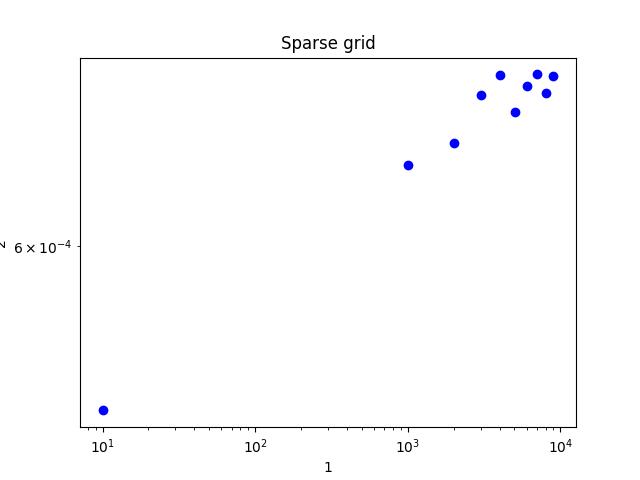
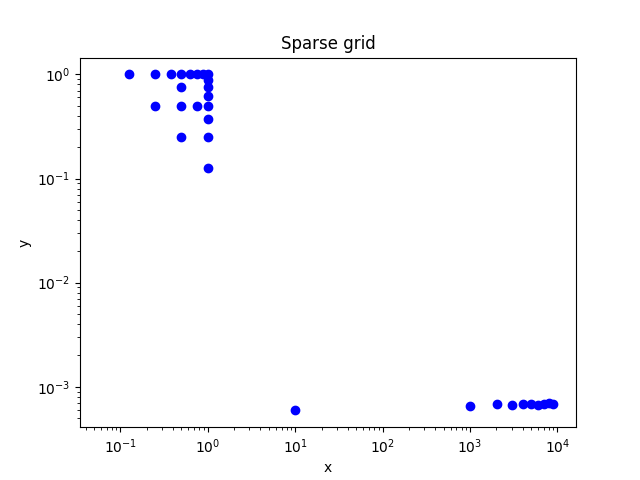
check sprsegrid png

diff --git a/day1_SparseGrid/SparseGridCode/analytical_examples/TASMANIAN_Python/homework.py b/day1_SparseGrid/SparseGridCode/analytical_examples/TASMANIAN_Python/homework.py
@@ -82,8 +82,8 @@ plt.xlabel('Number points')
 plt.ylabel('Max error')
 plt.savefig('maxerror.png')
 
-plt.plot(aPoints[0], aPoints[1], 'bo')
-plt.xlabel('1')
-plt.ylabel('2')
+plt.plot(aPoints[:,0], aPoints[:,1], 'bo')
+plt.xlabel('x')
+plt.ylabel('y')
 plt.title('Sparse grid')
 plt.savefig('sparsegrid.png')
